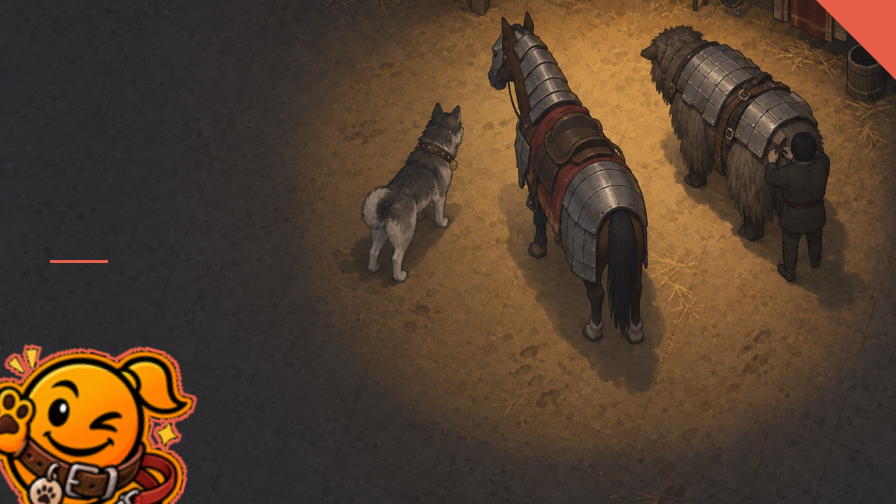
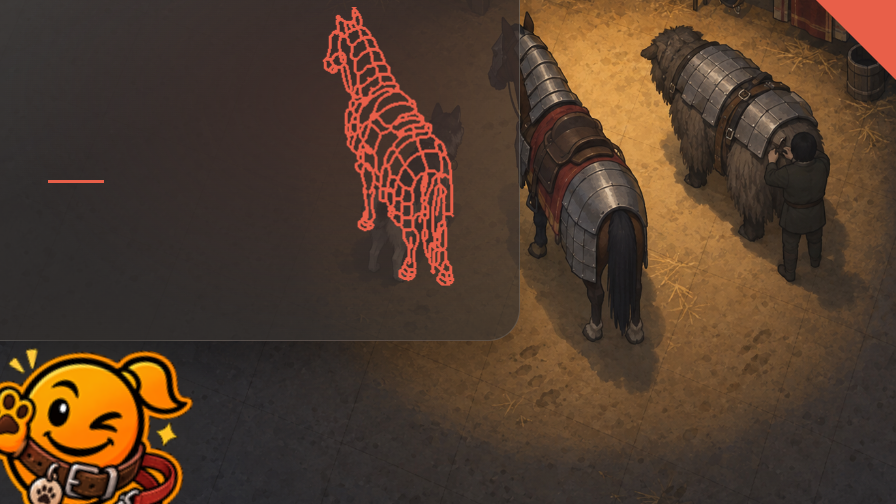
Log the WELCOME.md re-read and the Mod/ Explorer-artefact check

diff --git a/Art/Preview-layout.html b/Art/Preview-layout.html
@@ -1,15 +1,31 @@
 <!doctype html><meta charset="utf-8"><style>
-:root{--veil:#302D2A;--inkPrimary:#F2ECE1;--inkSecondary:#E5BA79;--accent:#E85F49;--badgeInk:#17120E}*{margin:0;padding:0;box-sizing:border-box}
+:root{--veil:#302D2A;--inkPrimary:#F2ECE1;--inkSecondary:#E5BA79;--accent:#E85F49;--badgeInk:#17120E;--iconOutline:var(--accent)}*{margin:0;padding:0;box-sizing:border-box}
 html,body{width:896px;height:504px;overflow:hidden;font-family:"Segoe UI",system-ui,sans-serif}
+@font-face{font-family:"RimWorldTitle";src:url("file:///C:/Users/nelim/AppData/Local/Microsoft/Windows/Fonts/RimWordFont4.ttf") format("truetype")}
 body{background:url(Preview.png) center/cover}
-.veil{position:absolute;inset:0;background:radial-gradient(circle at 0% 0%,rgba(48,45,42,.20) 0%,rgba(48,45,42,.20) 48%,rgba(48,45,42,0) 74%)}
-.copy{position:absolute;left:50px;top:54px;width:430px;color:var(--inkPrimary);text-shadow:0 3px 10px rgba(0,0,0,.75)}
-h1{font-size:46px;font-weight:600;line-height:1.1;letter-spacing:0}
+@property --lueur{syntax:'<percentage>';inherits:false;initial-value:24%}
+.panel{position:absolute;z-index:0;inset:0 auto auto 0;width:58%;height:auto;padding:30px 3rem 20px;box-sizing:border-box;border-radius:0 0 2rem 0;isolation:isolate;background:radial-gradient(ellipse at 65% 30%,oklch(from var(--accent) var(--lueur) calc(c * .2) h / .6),transparent 70%),linear-gradient(155deg,oklch(from var(--inkPrimary) l c h / .07),transparent 35%),oklch(from var(--veil) l c h / .72);border:solid oklch(from var(--inkPrimary) l c h / .14);border-width:0 1px 1px 0;box-shadow:0 1.5rem 3rem oklch(0% 0 0 / .35);animation:panel-light-up 1.2s 2s ease-out forwards,panel-breathe 9s 3.2s ease-in-out infinite alternate}
+.panel-bottom-left{inset:auto auto 0 0;padding:20px 3rem;border-radius:0 2rem 0 0;border-width:1px 1px 0 0}
+.panel-bottom-right{inset:auto 0 0 auto;padding:20px 3rem;border-radius:2rem 0 0 0;border-width:1px 0 0 1px}
+.panel-top-right{inset:0 0 auto auto;border-radius:0 0 0 2rem;border-width:0 0 1px 1px}
+.panel>.copy{position:relative;left:auto;top:auto;width:430px}.panel>.echo{top:var(--panelEchoTop,6%);right:var(--panelEchoRight,2%);left:auto;width:var(--panelEchoWidth,60%);height:auto;aspect-ratio:var(--echoAspect,1);z-index:-1;clip-path:inset(0 100% 0 0);animation:echo-trace 1.4s 600ms ease-in-out forwards}.panel h1,.panel p{color:var(--inkPrimary)}.panel p{max-width:32ch;text-wrap:pretty}.panel .rule{width:3.5rem;height:3px;margin:1.1rem 0 1rem}
+@keyframes echo-trace{to{clip-path:inset(0)}}
+@keyframes panel-light-up{to{--lueur:32%}}
+@keyframes panel-breathe{0%{--lueur:32%}35%{--lueur:33.5%}50%{--lueur:31.5%}80%{--lueur:34%}100%{--lueur:32.5%}}
+@media (prefers-reduced-motion:reduce){.panel,.panel>.echo{animation:none}.panel>.echo{clip-path:inset(0)}.panel{--lueur:32%}}
+.copy{position:absolute;z-index:2;left:50px;top:54px;width:430px;color:var(--inkPrimary);text-shadow:0 3px 10px rgba(0,0,0,.75)}
+h1{font-size:var(--titleSize,46px);font-weight:600;line-height:1.1;letter-spacing:0}.title-main{font-family:"RimWorldTitle","Segoe UI",sans-serif;color:var(--inkPrimary);display:inline-block;line-height:var(--titleLineHeight,1.1)}.title-part{font-size:calc(var(--titleScale,1) * 1em)}.title-ui{font-family:"Segoe UI",system-ui,sans-serif}.title-secondary{color:var(--inkSecondary)}
 .suffix{font-size:.65em;color:var(--inkSecondary)}
-.tag{font-size:24px;font-weight:400;line-height:1.1;letter-spacing:.2px;margin-top:8px;color:var(--inkSecondary)}
+.suffix:empty,.tag:empty{display:none}.tag{font-size:24px;font-weight:400;line-height:1.1;letter-spacing:.2px;margin-top:8px;color:var(--inkSecondary);font-family:"Segoe UI",system-ui,sans-serif}
+.tag-inline{display:inline;font-size:.65em;margin:0 0 0 .38em;vertical-align:middle}
 .rule{width:58px;height:3px;background:var(--accent);margin:20px 0 16px}
-p{font-size:21px;font-weight:400;line-height:1.45;width:430px;letter-spacing:0;color:var(--inkPrimary)}
+p{font-family:"Segoe UI",system-ui,sans-serif;font-size:21px;font-weight:400;line-height:var(--copyLineHeight,1.45);max-width:350px;letter-spacing:0;color:var(--inkPrimary)}
+.echo{position:absolute;z-index:1;background:var(--echoColor,var(--inkSecondary));opacity:var(--echoOpacity,.16);width:var(--echoWidth,180px);height:var(--echoHeight,180px);left:var(--echoLeft,250px);top:var(--echoTop,40px);mask-image:var(--echoMask);mask-size:contain;mask-position:center;mask-repeat:no-repeat;mask-mode:var(--echoMaskMode,alpha);pointer-events:none}
+.echo-fade-left{background:linear-gradient(to right,transparent 5%,var(--echoColor,var(--inkSecondary)) var(--echoFadeEnd,45%))}
+.echo-veil{position:absolute;z-index:0;width:calc(var(--echoWidth,180px) + 100px);height:calc(var(--echoHeight,180px) + 100px);left:calc(var(--echoLeft,250px) - 50px);top:calc(var(--echoTop,40px) - 50px);border-radius:48px;background:radial-gradient(ellipse 55% 65% at 65% 30% in oklch,oklch(from var(--accent) 31% calc(c * .2) h),transparent 70%),linear-gradient(to right in oklch,rgba(48,45,42,.92),rgba(48,45,42,1) 35%);mask-image:radial-gradient(ellipse closest-side at 55% 45%,#000 0%,#000 42%,transparent 100%);pointer-events:none}
+.echo-veil-accent-panel{background:radial-gradient(ellipse at 65% 30%,oklch(from var(--accent) 31% calc(c * .2) h),transparent 70%),var(--veil);mask-image:none}
+.icon-veil{position:absolute;width:var(--iconVeilSize,250px);height:var(--iconVeilSize,250px);left:var(--iconVeilLeft,auto);right:var(--iconVeilRight,auto);top:var(--iconVeilTop,auto);bottom:var(--iconVeilBottom,auto);border-radius:48px;background:radial-gradient(circle closest-side at center,rgba(48,45,42,1) 0%,rgba(48,45,42,1) 30%,rgba(48,45,42,0) 100%);pointer-events:none}
 .badge{position:absolute;right:0;top:0;width:80px;height:80px;background:var(--accent);clip-path:polygon(0 0,100% 0,100% 100%)}
 .version{position:absolute;left:869px;top:27px;transform:translate(-50%,-50%) rotate(45deg);font-size:26px;font-weight:700;line-height:1;color:var(--badgeInk)}
-.icon-badge{position:absolute;left:0;bottom:0;width:220px;transform:translate(-12.5%,12.5%) rotate(15deg);filter:url(#icon-outline)}
-</style><svg aria-hidden="true" width="0" height="0" style="position:absolute"><filter id="icon-outline" x="-50%" y="-50%" width="200%" height="200%" color-interpolation-filters="sRGB"><feMorphology in="SourceAlpha" operator="dilate" radius="3" result="expanded"/><feFlood flood-color="var(--accent)" result="accent"/><feComposite in="accent" in2="expanded" operator="in" result="outline"/><feComposite in="outline" in2="SourceAlpha" operator="out" result="border"/><feMerge><feMergeNode in="border"/><feMergeNode in="SourceGraphic"/></feMerge></filter></svg><div class="veil"></div><div class="copy"><h1><span class="title-main">Animal Apparel: Collars and Kit</span><br><span class="suffix">Renew</span></h1><div class="tag">(unofficial)</div><div class="rule"></div><p>Collars, barding, clothing and turret packs<br>for animals, from Animal Gear's framework.</p></div><div class="badge"></div><div class="version">1.6</div><img class="icon-badge" src="ModIcon-badge.png">
+.icon-badge{position:absolute;left:0;bottom:0;width:220px;image-rendering:auto;transform:translate(-12.5%,12.5%) rotate(15deg)}
[1 lines of base64/hex data omitted]

diff --git a/docs/PROTOCOLS-READ.md b/docs/PROTOCOLS-READ.md
@@ -15,6 +15,7 @@ Hash = first 10 hex digits of SHA-256 of the file in the monorepo root.
 | Rimworld-Release-Admin/docs/OPERATIONS.md | f6f85474f6 read 2026-09-26; now 23fcf64230, not re-read: no publication this session |
 | STATUS.md, TESTING.md, README.md, CHANGELOG.md, ATTRIBUTION.md, About.xml, PUBLICATION.md (this mod) | read at 6b39f65 (STATUS front matter and last sections, TESTING evidence section) |
 | docs/runs/README.md, Tests/Pickle/ (layout, Evidence summaries) | read 2026-10-01 |
+| Rimworld-Ticket-Dispatcher/docs/WELCOME.md, docs/SUBMIT.md | WELCOME 08b440a03f, re-read 2026-10-01 after the Ticket Manager's message (no desktop.ini or .ico tracked in Mod/: verified, `Mod/desktop.ini` is ignored and untracked; no grep -r on the Workshop, use scripts/Search-Workshop.sh) |
 
 ## Read, not useful for this mod now (do not re-read when they change, unless the task changes)
 
@@ -22,7 +23,7 @@ Hash = first 10 hex digits of SHA-256 of the file in the monorepo root.
 - WORKSHOP_COMMENTS.md (3fb37586f0): only when posting thank-you comments (after the public switch).
 - scripts/SEARCHING.md: corpus search, no search needed.
 - PickleTools/README.md, PickleTools/Headless/README.md, PickleTools/docs/steps.md,
-  Rimworld-Ticket-Dispatcher/docs/WELCOME.md (now 08b440a03f) and docs/SUBMIT.md: Pickle run
+  docs/SUBMIT.md: Pickle run
   mechanics; no run was submitted this session. Read them before submitting one.
 
 ## Absent in this mod

diff --git a/Art/README-preview.md b/Art/README-preview.md
@@ -36,5 +36,10 @@ radial gradient gained a flat 0%-48% plateau before its fade so a two-line title
 does not push the tag/summary text into a low-opacity zone. Both changes are in
 `scripts/Render-Preview.cjs` and apply to every mod using it, not a local override.
 
+The panel follows the shared content-sized layout: 30 px above top-anchored copy,
+48 px laterally, and 20 px below the summary. `Renew` and inline `(unofficial)`
+share the same 65% scale. `echo-source.png` is the bespoke transparent line-art
+source of the armored horse; the shared renderer normalizes it to a 3 px stroke.
+
 Visual review at 896 and 268 px remains necessary after changes: the automated
 checks cannot judge subject overlap or recognize a badge landing on the copy box.
